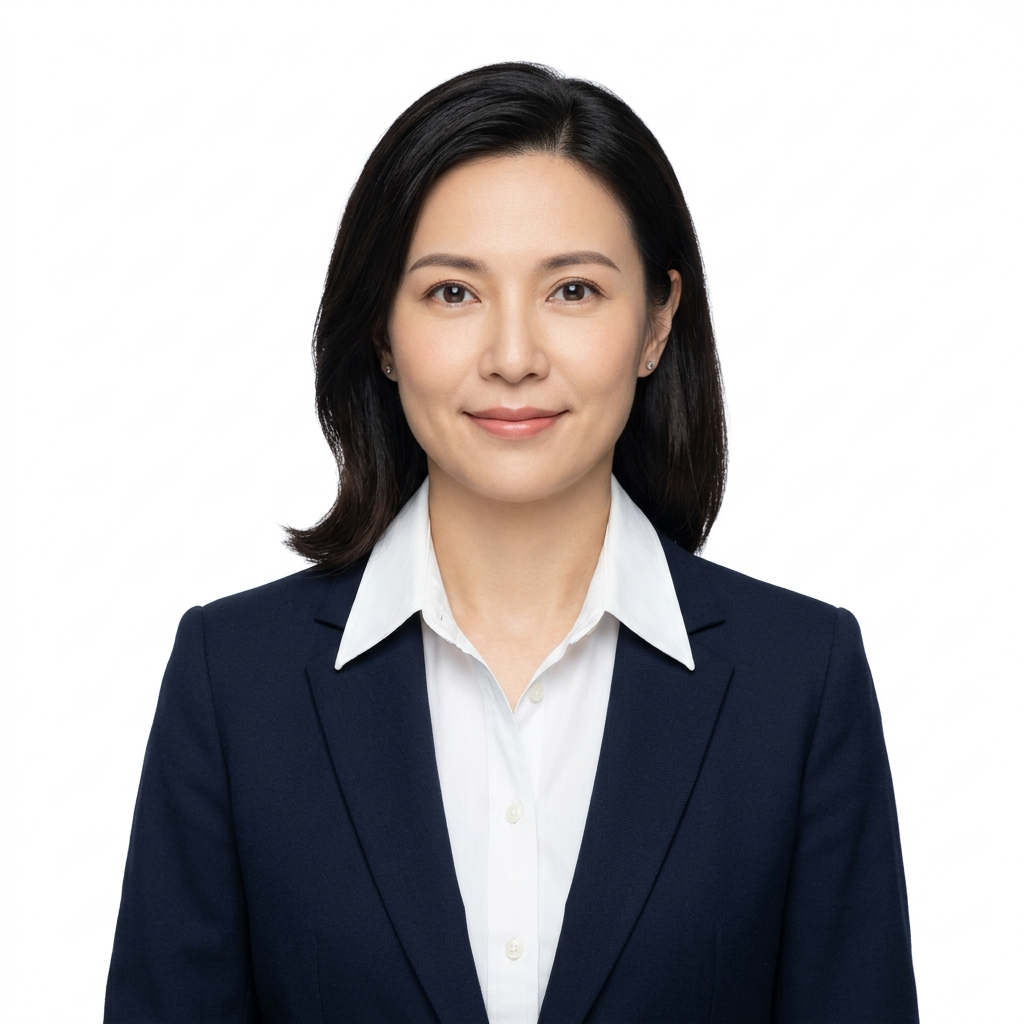
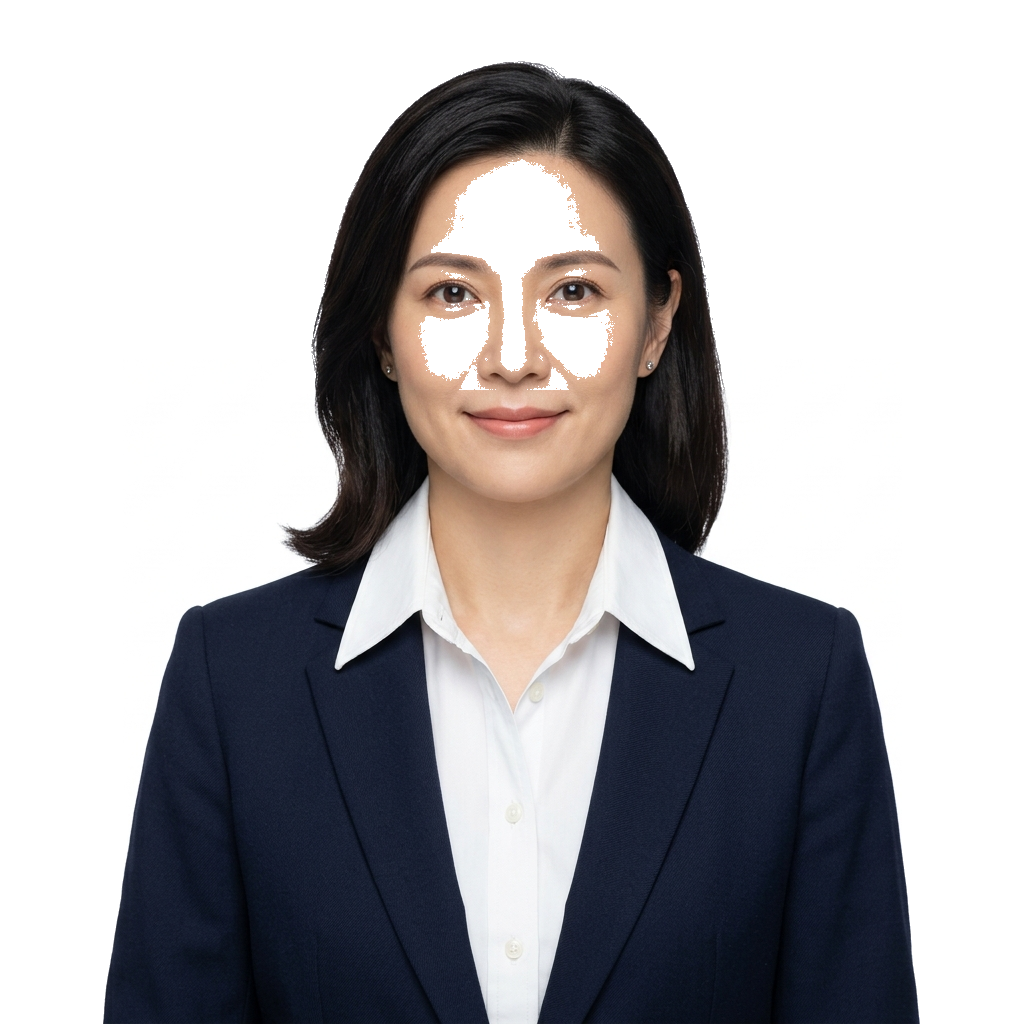
fix(studio): Process all suit assets into 100% transparent PNG templates with empty neck hole (Cutout.pro style) and direct alpha blending

Changed region(s): [[0.4062, 0.1562, 0.5938, 0.4062]]

diff --git a/flutter_app/lib/services/subject_segmentation_service.dart b/flutter_app/lib/services/subject_segmentation_service.dart
@@ -202,11 +202,15 @@ class SubjectSegmentationService {
         if (canvasX < 0 || canvasX >= imgW) continue;
 
         final px = resizedSuit.getPixel(sx, sy);
-        final isWhiteBg = px.r > 240 && px.g > 240 && px.b > 240;
         final alpha = (px.a / 255.0);
 
-        if (!isWhiteBg && alpha > 0.1) {
-          bgCanvas.setPixelRgb(canvasX, canvasY, px.r.toInt(), px.g.toInt(), px.b.toInt());
+        if (alpha > 0.05) {
+          final bgPx = bgCanvas.getPixel(canvasX, canvasY);
+          final r = (px.r * alpha + bgPx.r * (1.0 - alpha)).round().clamp(0, 255);
+          final g = (px.g * alpha + bgPx.g * (1.0 - alpha)).round().clamp(0, 255);
+          final b = (px.b * alpha + bgPx.b * (1.0 - alpha)).round().clamp(0, 255);
+
+          bgCanvas.setPixelRgb(canvasX, canvasY, r, g, b);
         }
       }
     }
